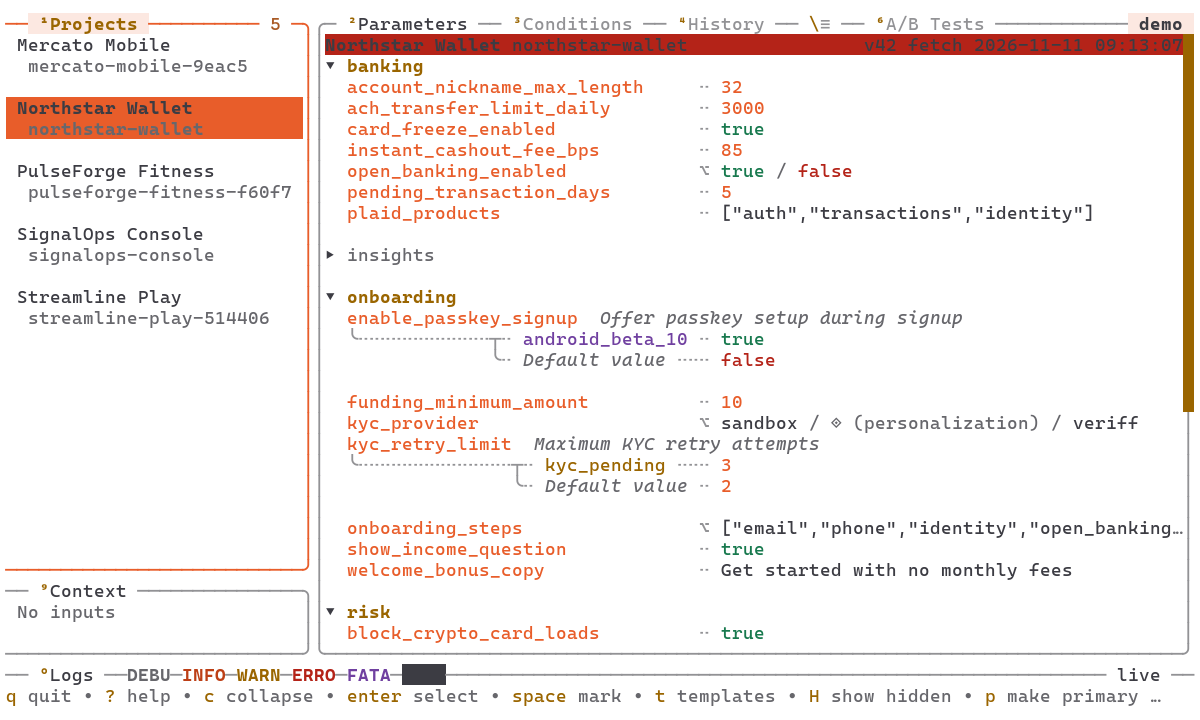
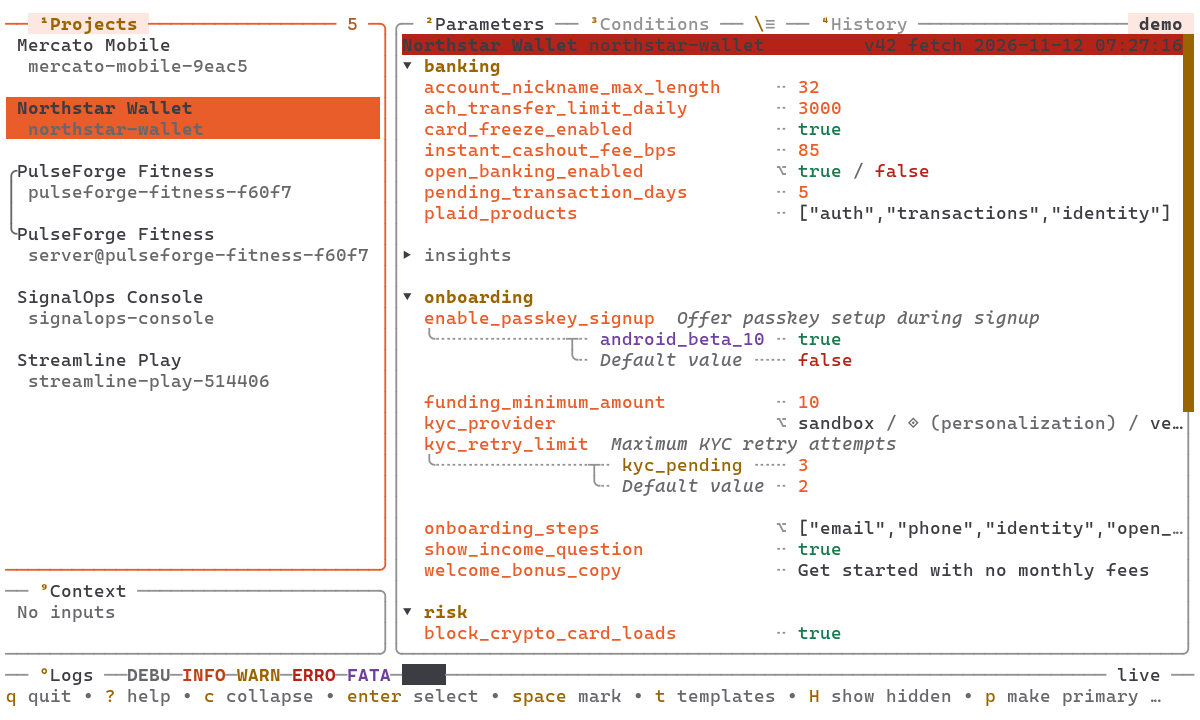
regenerate screenshots with server template

diff --git a/vhs/launch.py b/vhs/launch.py
@@ -93,7 +93,10 @@ def launch(args, session):
     registry = {"version": 1, "projects": []}
     cached_at = datetime.now(timezone.utc).isoformat(timespec="seconds")
     for name, project_id, filename in PROJECTS:
-        registry["projects"].append({"name": name, "project_id": project_id, "auth_id": "demo"})
+        project = {"name": name, "project_id": project_id, "auth_id": "demo"}
+        if project_id == "pulseforge-fitness-f60f7":
+            project.update(templates=["client", "server"], primary_template="client")
+        registry["projects"].append(project)
         if args.live_profile:
             continue
         template = json.loads((VHS / filename).read_text(encoding="utf-8"))

diff --git a/vhs/README.md b/vhs/README.md
@@ -9,7 +9,8 @@ GIF, run `vhs vhs/demo.tape`, `vhs vhs/website-dark.tape`, or
 
 For a live run, the launcher creates a temporary profile containing only the
 five demo projects and uses the source profile's current OAuth access token
-and demo quota project. The recording opens published client templates and
+and demo quota project. Projects shows both PulseForge templates, with Client
+as the primary target. The recording opens published client templates and
 ends at a promotion preview. Running without `FBRCM_VHS_LIVE_PROFILE` uses
 the checked-in JSON templates with `FBRCM_OFFLINE=1`. The GIFs and stills share
 `website-scenario.tape`. Its screenshot markers identify the Northstar overview

diff --git a/docs/site/tui/index.md b/docs/site/tui/index.md
@@ -24,7 +24,7 @@ shows more of a project comparison or promotion at once.
   :image="{
     light: '/tui-workspace-light.png',
     dark: '/tui-workspace-dark.png',
-    alt: 'PulseForge Fitness selected with the premium recipe count open in Details and five log lines below the workspace'
+    alt: 'PulseForge Fitness client selected with its server template listed, premium recipe count open in Details, and five log lines below'
   }"
 />
 
